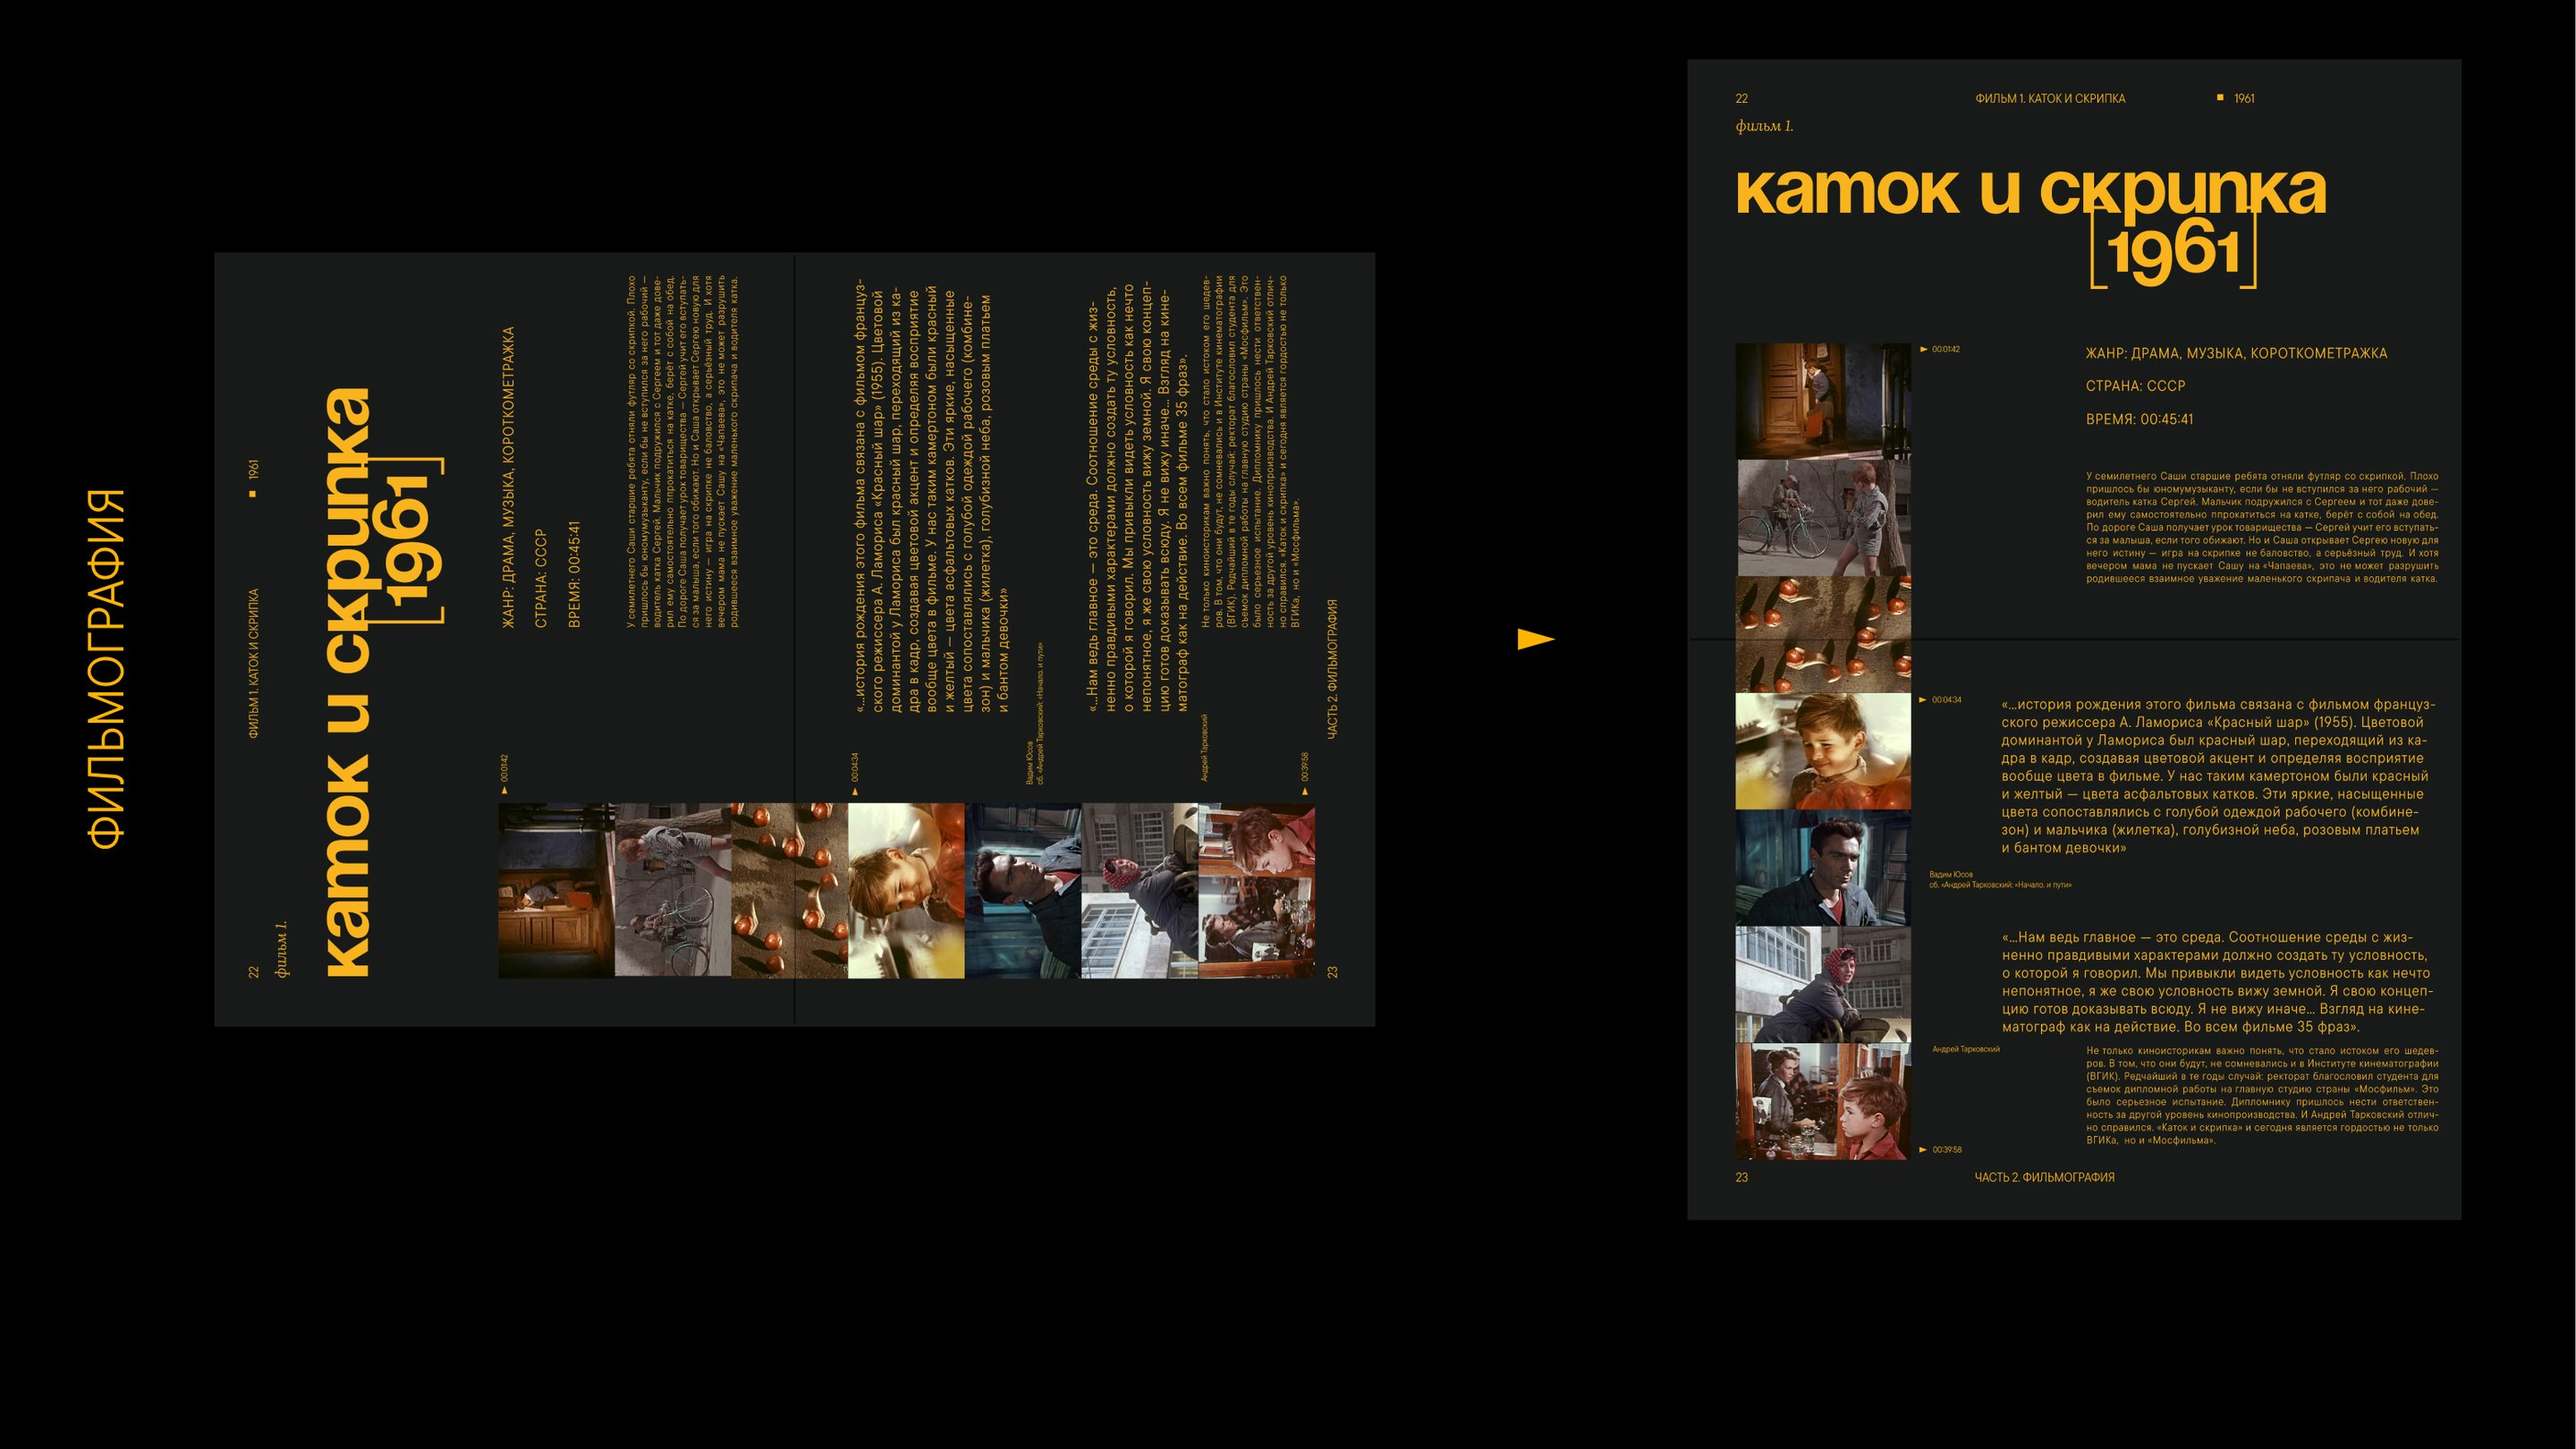
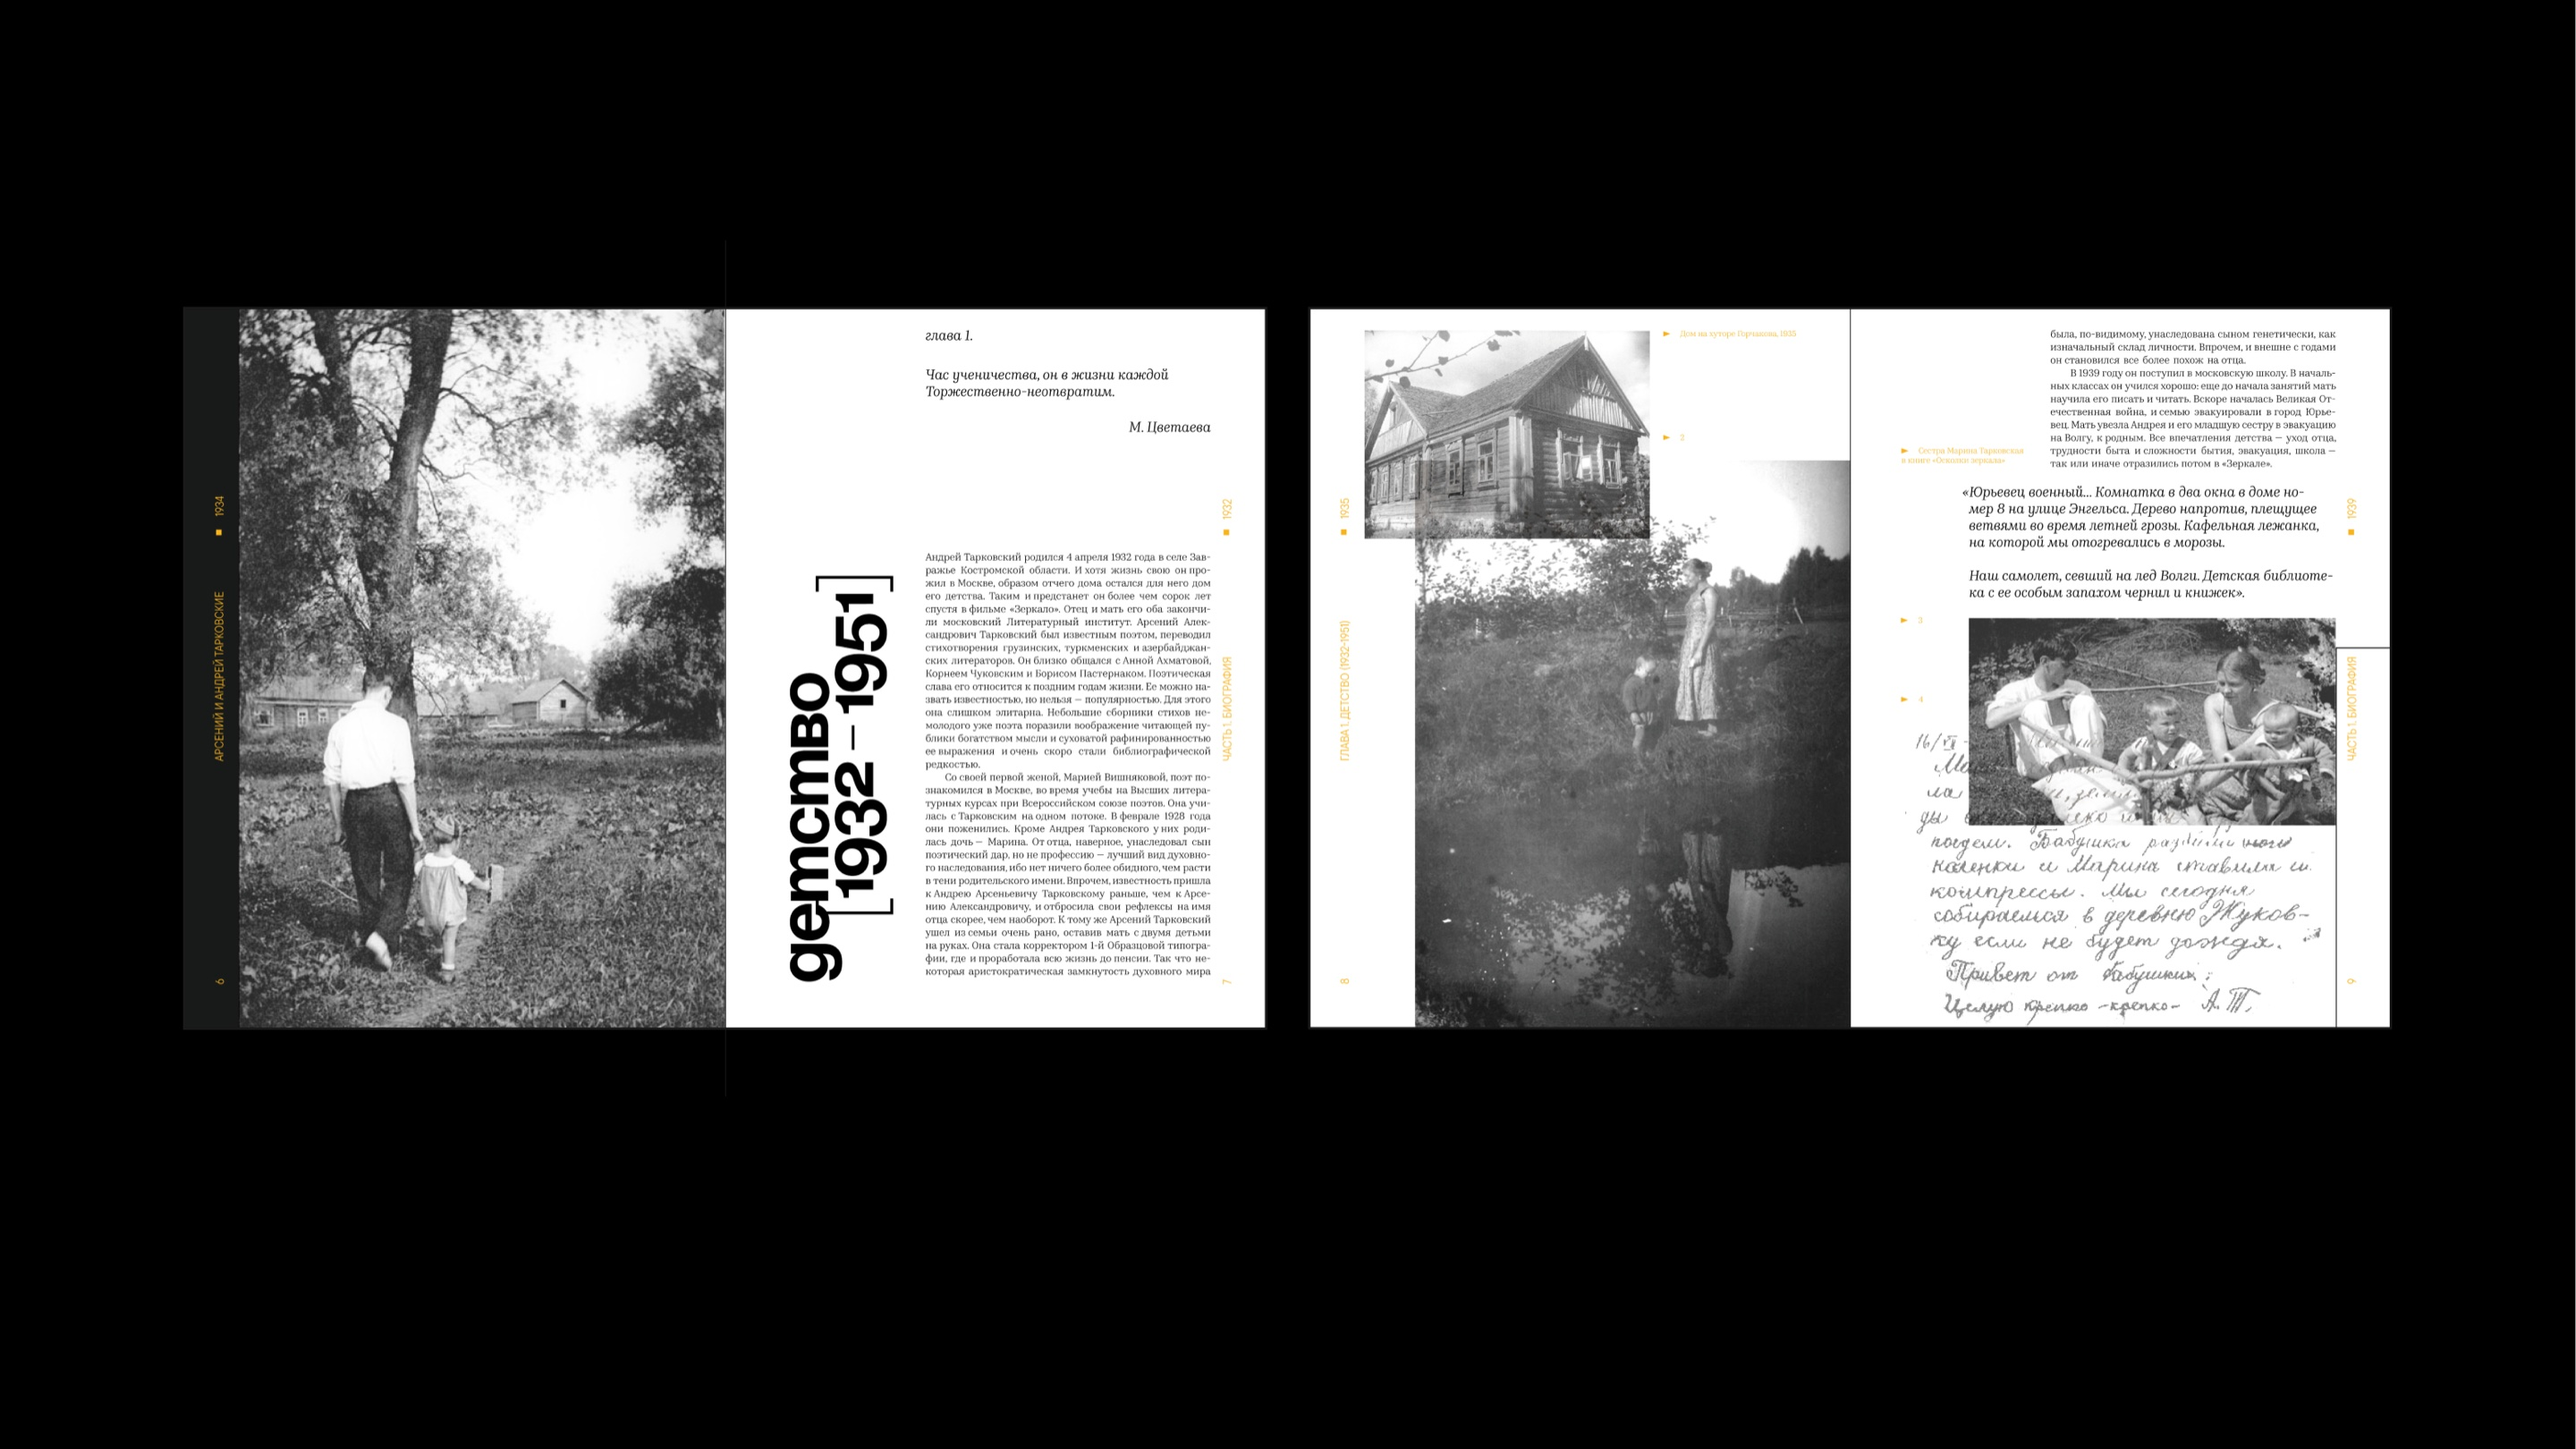
Тарковский: новые картинки, суперобложка сменяющимися кадрами, без повторов
- картинки кейса заменены на обновлённые, кадр с рукой у камина (24) убран
- обложка кейса — отдельный кадр, в галерее не повторяется; обложка на главной тоже обновлена
- новый тип ряда loop: кадры суперобложки сменяют друг друга, как гифка
- тексты стоят у своих разворотов
- в <title> и описании нет невидимых склеек типографа

diff --git a/src/content.config.ts b/src/content.config.ts
@@ -30,8 +30,9 @@ const projects = defineCollection({
             // full — во всю ширину поля; pair — две картинки по 6 колонок;
             // right — с главной оси (4-я колонка) до правого поля; left — от левого поля на 9 колонок;
             // center — 6 колонок по главной оси; video — встроенное видео с обложкой;
-            // text — текст из texts по ключу text; все тексты стоят справа, с 7-й колонки
-            layout: z.enum(['full', 'pair', 'right', 'left', 'center', 'video', 'text']),
+            // text — текст из texts по ключу text; все тексты стоят справа, с 7-й колонки;
+            // loop — несколько кадров сменяют друг друга по кругу, как гифка (во всю ширину)
+            layout: z.enum(['full', 'pair', 'right', 'left', 'center', 'video', 'text', 'loop']),
             text: z.string().optional(),
             images: z.array(image()).default([]),
             youtube: z.string().optional(),

diff --git a/src/content/projects/tarkovsky/ru.md b/src/content/projects/tarkovsky/ru.md
@@ -71,29 +71,31 @@ gallery:
   - { layout: full, images: [./images/02.jpg] }
   - { layout: full, images: [./images/03.jpg] }
   - { layout: text, text: about }
-  - { layout: center, images: [./images/04.gif] }
+  - { layout: loop, images: [./images/06-1.jpg, ./images/06-2.jpg, ./images/06-3.jpg] }
   - { layout: text, text: cover }
-  - { layout: pair, images: [./images/06.jpg, ./images/07.jpg] }
+  - { layout: left, images: [./images/07.jpg] }
+  - { layout: pair, images: [./images/08.jpg, ./images/09.jpg] }
   - { layout: text, text: concept }
-  - { layout: full, images: [./images/05.jpg] }
+  - { layout: full, images: [./images/04.jpg] }
   - { layout: text, text: biography }
-  - { layout: pair, images: [./images/09.jpg, ./images/14.jpg] }
+  - { layout: pair, images: [./images/05.jpg, ./images/12.jpg] }
+  - { layout: pair, images: [./images/11.jpg, ./images/14.jpg] }
+  - { layout: pair, images: [./images/18.jpg, ./images/21.jpg] }
+  - { layout: full, images: [./images/10.jpg] }
   - { layout: text, text: filmography }
-  - { layout: right, images: [./images/10.jpg] }
-  - { layout: pair, images: [./images/08.jpg, ./images/12.jpg] }
-  - { layout: pair, images: [./images/11.jpg, ./images/16.jpg] }
-  - { layout: left, images: [./images/13.jpg] }
+  - { layout: pair, images: [./images/16.jpg, ./images/25.jpg] }
+  - { layout: full, images: [./images/13.jpg] }
+  - { layout: left, images: [./images/15.jpg] }
   - { layout: text, text: documents }
-  - { layout: full, images: [./images/15.jpg] }
-  - { layout: text, text: typography }
-  - { layout: video, youtube: a3Ir7pQAh_E, images: [./images/19.jpg] }
-  - { layout: pair, images: [./images/17.jpg, ./images/18.jpg] }
+  - { layout: pair, images: [./images/19.jpg, ./images/22.jpg] }
   - { layout: right, images: [./images/20.jpg] }
-  - { layout: pair, images: [./images/22.jpg, ./images/25.jpg] }
-  - { layout: full, images: [./images/21.jpg] }
-  - { layout: pair, images: [./images/23.jpg, ./images/24.jpg] }
+  - { layout: full, images: [./images/17.jpg] }
+  - { layout: text, text: typography }
+  - { layout: video, youtube: a3Ir7pQAh_E, images: [./images/23.jpg] }
+  - { layout: pair, images: [./images/26.jpg, ./images/27.jpg] }
   - { layout: text, text: motifs }
-  - { layout: left, images: [./images/26.jpg] }
-  - { layout: full, images: [./images/27.jpg] }
+  - { layout: full, images: [./images/28.jpg] }
+  - { layout: full, images: [./images/29.jpg] }
+  - { layout: right, images: [./images/30.jpg] }
   - { layout: text, text: sources }
 ---
